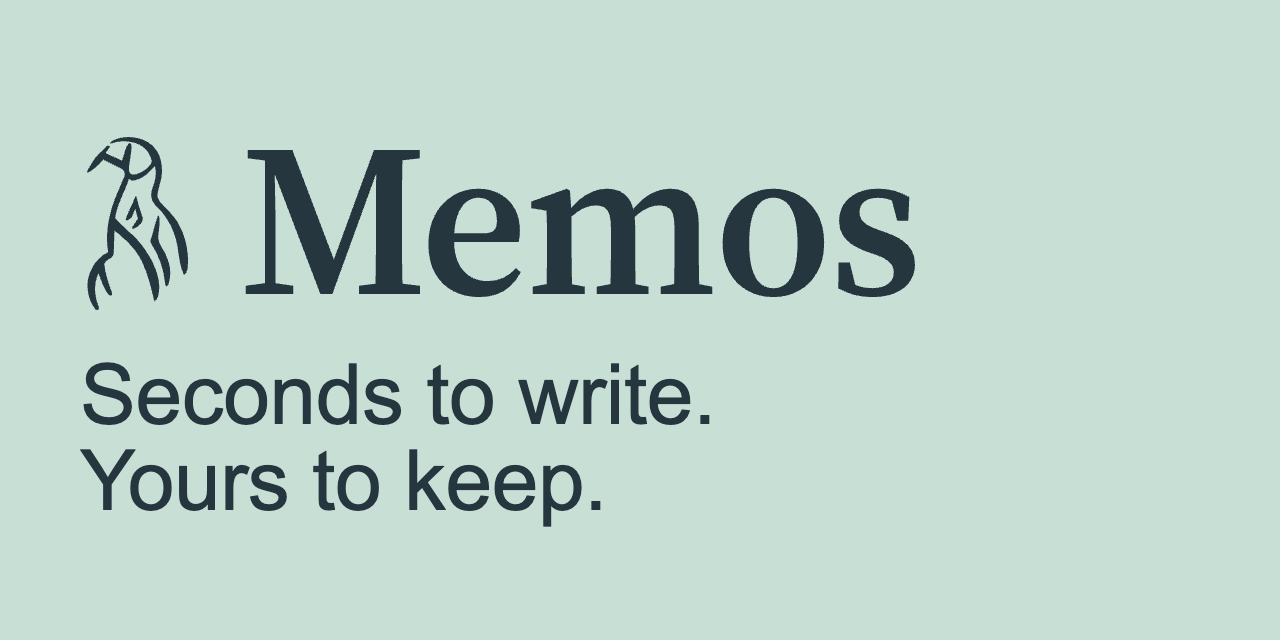
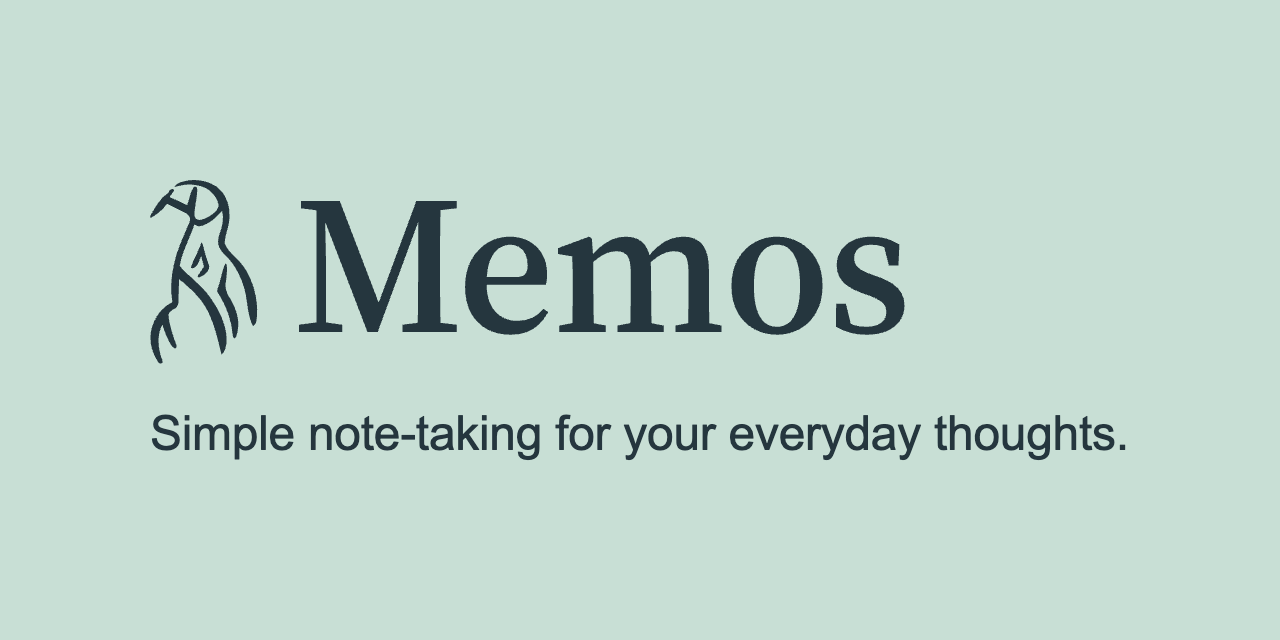
chore(brand): refine lockup proportions and unify public copy

Changed region(s): [[0.0625, 0.2188, 0.875, 0.8125]]

diff --git a/tools/preview/preview.css b/tools/preview/preview.css
@@ -27,7 +27,7 @@ body { font-family: var(--font-sans); color: var(--ink); background: var(--backd
 .app { display: flex; width: 1356px; height: 1022px; overflow: hidden; border: 1px solid #C9CECB; border-radius: 8px; background: var(--app); box-shadow: 0 14px 30px #253A2F12; }
 .sidebar { flex: 0 0 324px; padding: 10px 13px; border-right: 1px solid #E2E1DD; background: var(--sidebar); }
 .brand { display: flex; align-items: center; gap: 10px; height: 45px; margin-bottom: 12px; color: #17201C; }
-.brand-lockup { display: block; width: 145px; height: 40px; }
+.brand-lockup { display: block; width: 145px; height: auto; }
 .brand .icon { width: 17px; height: 17px; margin-left: -1px; color: #858782; }
 .icon { display: inline-block; width: 22px; height: 22px; flex: 0 0 auto; vertical-align: middle; fill: none; stroke: currentColor; stroke-width: 1.8; stroke-linecap: round; stroke-linejoin: round; }
 .nav { height: 54px; display: flex; align-items: flex-start; gap: 15px; border-bottom: 1px solid #DBDBD5; color: #7F817E; }

diff --git a/BRAND.md b/BRAND.md
@@ -4,36 +4,49 @@ Everything said about Memos in public comes from this file. Change it here first
 
 ## Who it is for
 
-Someone with many quick thoughts a day and nowhere to put them. Not a writer or an organizer; they just want the thought out before it goes. Most note apps ask first: a title, a folder, a place on the page. What they write is theirs. Some share part of it with family and friends.
+Someone who records thoughts in short moments throughout the day, often a sentence at a time. They want to write while a thought is fresh and then get back to what they were doing. They value being able to revisit those thoughts later, with control over their data and sharing.
 
-Public words speak to this person as "you". Sharing is written for that circle. A link anyone can open, the Explore page, and a Memos that several people use are served by the same words, not by separate copy.
+Some keep their memos private; others share with family and friends or publish on the web. Public words speak to this person as “you”.
 
 ## What Memos gives them
 
-A place for every quick thought. Memos asks nothing first: no title, no folder, no place to put it. They type, and the thought is kept before it goes.
+A place for each thought. Writing starts with what is on their mind. A single sentence can be a whole memo, and they can take their time with a longer entry. Markdown gives their words formatting and structure when they want it.
 
-A day they can return to. Every memo keeps the day it was written, and any day can be found again.
+A record they can return to. Each memo stays with the day it was written, forming a personal timeline. Tags help them follow a topic across those days and find past entries.
 
-A record that is theirs. It lives where they decide, reports to no one, and leaves as plain Markdown.
+Ownership of their data. Memos is open-source and self-hosted. Their record lives on their own server, and their data stays theirs.
 
-Family and friends, when they choose. A memo is theirs alone until they share it. Each person writes their own memos and sees only what the others choose to show.
+Sharing they control. They decide what stays private, what to share with family and friends, and what to publish on the web. In shared spaces, they can write alongside others while keeping their own memos.
 
 ## How Memos talks
 
-Like that person's own notebook would, if it could talk. Quiet and plain. It says what is yours and what you can do, never what the software does or where it runs. Open-source is the one fact about the software it may state, where readers look for it. It says fast, private, and yours; never frictionless, secure, or encrypted. It does not sell: no comparison with other apps, no superlatives, no call to act.
+Quiet, plain, and natural. Lead with what the reader can write, keep, revisit, and share. Use connected sentences and concrete experiences. Express the value positively: a single sentence can be a whole memo.
 
-The product is Memos, singular. One entry is a memo. The whole is the timeline.
+Name open-source and self-hosted clearly in the product introduction, and connect them to ownership of the reader’s data. Explain Markdown, tags, and spaces through the writing, revisiting, and sharing they support. Keep claims about capabilities and data handling specific and factual. Use restrained descriptions of the experience, such as “simple”, and explain the behavior behind them. Avoid comparisons, superlatives, calls to action, and promises of security or encryption.
+
+Use these terms consistently:
+
+- **Memos** is the product name and takes a singular verb. Use “note-taking app” for the product category.
+- A **memo** is one entry.
+- A **timeline** presents memos in time order.
+- A **tag** labels a topic and helps readers find related memos.
+- A **space** brings members and their memos together. Each memo keeps its author and its own sharing settings.
+
+Use lowercase memo, timeline, tag, and space in prose, with regular plurals. Preserve capitalization when quoting a UI label. Use personal for the reader’s own record or timeline, and private for a memo’s visibility.
+
+Use curly quotation marks and apostrophes in prose. Preserve literal characters in code, attribute values, paths, and identifiers.
 
 ## Copy
 
+The full introduction is the basis for the description and headline. Each piece expresses the same positioning at a different length and should make sense to someone meeting Memos for the first time. In README headers and website heroes, pair the headline with the description. Use the full introduction when there is room to explain the experience. On social cards, the headline appears with the lockup.
+
 Used as written.
 
-| Piece | Copy | Where |
-| --- | --- | --- |
-| Tagline | Seconds to write. Yours to keep. | README header, usememos.com hero |
-| One-liner | A timeline for your thoughts. Just type. It stays yours. | Repository descriptions, page metadata |
-| Short | Memos is a place for every quick thought. No title, no folder, nothing to pick: type, and the thought is kept on the day you wrote it. Your memos stay where you decide, yours alone until you share one with family and friends. | README, website, Docker Hub, Helm, deploy templates |
-| Standard | Memos is an open-source timeline for your quick thoughts. It asks nothing first: no title to invent, no folder to pick, no place to put it. Type, and the thought is kept before it goes. Every memo keeps the day it was written, so any day can be found again: by scrolling, by calendar, by tag, or by word. Your memos live where you decide, report to no one, and leave as plain Markdown whenever you like. They are yours alone until you share one with family or friends, who write their own memos and see only what you choose to show. | Documentation introduction, store listings |
+| Piece | Purpose | Copy | Where |
+| --- | --- | --- | --- |
+| Headline | Identifies the category and core use at a glance; leaves product and ownership details to the description. | Simple note-taking for your everyday thoughts. | README header, usememos.com hero, social card |
+| Description | States what Memos is, how thoughts come together, and who controls the data and sharing. | Memos is an open-source, self-hosted note-taking app that brings your everyday thoughts together in a personal timeline. Your data stays yours, and you choose what to keep private or share. | README header, usememos.com hero, repository descriptions, page metadata, store subtitles, compact product introductions |
+| Full introduction | Explains the experience naturally: everyday writing, a personal record, data ownership, and sharing. | Memos is an open-source, self-hosted note-taking app for your everyday thoughts. It’s a place to write what’s on your mind as you go about your day. A single sentence can be a whole memo, or you can take your time with a longer entry, using Markdown to give your words more structure.<br><br>These moments of writing gradually become a personal record. Each memo stays with the day you wrote it, bringing your thoughts together in a timeline you can look back through. Tags connect related thoughts across those days, making it easy to pick up a topic again or find something you remember writing.<br><br>That record lives on your own server, and your data stays yours. You choose what stays private, what to share with family and friends, and what to publish on the web. In shared spaces, you can write alongside others while each person keeps their own memos. | README, website, documentation introduction, store listings, Docker Hub, Helm, deploy templates |
 
 ## Assets
 
@@ -41,32 +54,32 @@ Used as written.
 | --- | --- |
 | [mark.svg](assets/brand/mark.svg) | Bird alone for navigation and icons, above 32 px. |
 | [mark-small.svg](assets/brand/mark-small.svg) | Bird alone at 32 px or below. |
-| [lockup.svg](assets/brand/lockup.svg) | Bird and wordmark for headers; visible bird above 32 px. |
-| [lockup-small.svg](assets/brand/lockup-small.svg) | Lockup with a visible bird of 32 px or below. |
-| [lockup-on-dark.svg](assets/brand/lockup-on-dark.svg) | Standard lockup with light artwork for dark-background image embeds. |
+| [lockup.svg](assets/brand/lockup.svg) | Bird and wordmark for headers, using the same artwork at every size. |
+| [lockup-small.svg](assets/brand/lockup-small.svg) | Compatibility URL for the same lockup artwork, with compact intrinsic dimensions. |
+| [lockup-on-dark.svg](assets/brand/lockup-on-dark.svg) | The same lockup with light artwork for dark-background image embeds. |
 | [avatars/](assets/brand/avatars/) | Eight 512 × 512 PNGs for account and organization profiles. |
 | [timeline-light.png](assets/previews/timeline-light.png), [timeline-dark.png](assets/previews/timeline-dark.png) | Product previews for the corresponding theme. |
-| [social-preview.png](assets/previews/social-preview.png) | 1280 × 640 social card with the official lockup, tagline, and celadon background. |
+| [social-preview.png](assets/previews/social-preview.png) | 1280 × 640 social card with the official lockup, headline, and celadon background. |
 | [sponsors/](assets/sponsors/) | Supplied sponsor artwork. |
 
-Choose size variants by rendered SVG size for marks and visible bird height for lockups.
+Choose standalone mark variants by rendered SVG size. Lockups use one set of outlines and proportions at every size; use `lockup.svg` for new consumers. The recommended minimum lockup width is 145 px, including its canvas padding.
 
 ## Mark and wordmark
 
 A bird drawn in the manner of early pictographs, the oldest records of what someone once thought. One filled shape, one color. It is never redrawn: not traced, outlined, stretched, cropped, or colored in parts.
 
-The wordmark uses [Source Serif 4](https://github.com/adobe-fonts/source-serif) Semibold (`600`), optical size `32`, kerning enabled, and `−0.015em` letter spacing, under the [SIL Open Font License 1.1](https://github.com/adobe-fonts/source-serif/blob/release/LICENSE.md). This typeface applies only to the wordmark. Use the supplied SVG lettering; no font installation is required.
+The wordmark uses [Source Serif 4](https://github.com/adobe-fonts/source-serif) at variable weight `550`, optical size `32`, kerning enabled, and `−0.015em` letter spacing, under the [SIL Open Font License 1.1](https://github.com/adobe-fonts/source-serif/blob/release/LICENSE.md). This typeface applies only to the wordmark. Use the supplied SVG lettering; no font installation is required.
 
-With **H** equal to the capital M height, the bird is `1.2H` tall, with a `0.4H` gap and `0.25H` canvas padding on each side. Scale the supplied lockup uniformly, preserving its alignment, `viewBox`, and padding.
+With **H** equal to the capital M height, the bird is `1.4H` tall, with a `0.32H` gap between the visible bird and lettering. The bird’s visible vertical center sits `0.03H` below the visible center of the full wordmark. Canvas padding is `0.25H` from the artwork’s outermost visible bounds on each side. Scale the supplied lockup uniformly, preserving its alignment, `viewBox`, and padding; do not change the artwork or optical size for smaller displays.
 
 ## Usage
 
-- **Color:** Inline SVGs use `currentColor`; set CSS `color` for a dark fill on light backgrounds and a light fill on dark backgrounds. The mark's optional `--logo-background` and `--logo-radius` properties control its background rectangle.
+- **Color:** Inline SVGs use `currentColor`; set CSS `color` for a dark fill on light backgrounds and a light fill on dark backgrounds. The mark’s optional `--logo-background` and `--logo-radius` properties control its background rectangle.
 - **Image embeds:** `<img>` cannot pass page colors into an SVG. Switch between `lockup.svg` and `lockup-on-dark.svg` using `<picture>` and `prefers-color-scheme`; see the [README example](profile/README.md). Use full public URLs for embeds across repositories.
-- **Accessible names:** Name standalone or linked logos “Memos.” Hide decorative duplicates with `alt=""` or `aria-hidden="true"`, while keeping links named.
+- **Accessible names:** Name standalone or linked logos “Memos”. Hide decorative duplicates with `alt=""` or `aria-hidden="true"`, while keeping links named.
 - **Avatars:** Upload the square PNG unchanged and let the platform apply its mask. Pick one color per surface and use it consistently. A primary palette is not chosen yet.
 - **Previews:** Keep light and dark content aligned. Export both 1448 × 1086 PNGs from [tools/preview/](tools/preview/), preserving their aspect ratio and solid control fills. Use the light image as the fallback.
-- **Social card:** Export the 1280 × 640 PNG from `tools/preview/build-social.mjs` and its generated preview page. Keep the celadon background flat and scale the official lockup uniformly.
+- **Social card:** Export the 1280 × 640 PNG from `tools/preview/build-social.mjs` and its generated preview page. Keep the celadon background flat and scale the official lockup uniformly. The lockup leads, with a smaller, single-line headline below it. Check the rendered headline for fit and readability before export. Align their visible left edges and center the group on the canvas, leaving a clear gap between the artwork and headline.
 
 ## Changes
 

diff --git a/tools/preview/README.md b/tools/preview/README.md
@@ -14,7 +14,7 @@ node tools/preview/build-social.mjs
 
 Open `tools/preview/dist/social-preview.html` and click **Download PNG**, then copy the downloaded `social-preview.png` into `assets/previews/`. The page is self-contained and works without a server. It exports exactly 1280 × 640 pixels, independent of the displayed preview size or device pixel ratio. The PNG is ready to upload as a repository's social preview in GitHub settings.
 
-`build-social.mjs` defines the flat celadon background (`#c8dfd5`), dark ink (`#25363e`), layout, and two-line tagline. It reads the tagline from `BRAND.md` and embeds `assets/brand/lockup.svg`, preserving its official paths, viewBox, padding, and proportions. Only the tagline uses live text (Arial, with Helvetica and sans-serif fallbacks); its rasterization can vary by operating system. No font or image service is required.
+`build-social.mjs` defines the flat celadon background (`#c8dfd5`), dark ink (`#25363e`), and brand-first layout. The lockup has an 820 px canvas width; the smaller 48 px headline sits on one line below it. Their visible left edges align, and the group is centered on the card. It reads the Headline copy cell from `BRAND.md` and embeds `assets/brand/lockup.svg`, preserving its official paths, viewBox, padding, and proportions. Only the headline uses live text (Arial, with Helvetica and sans-serif fallbacks); its rasterization can vary by operating system. No font or image service is required.
 
 The builder also writes `dist/social-preview.svg` for vector inspection. Both generated sources in `dist/` are ignored by Git. Export through **Download PNG** for the published asset; browser screenshots may be lossy. Inspect the PNG at full size and at a small sharing size before replacing it.
 
@@ -50,7 +50,9 @@ the operating system and browser. The exported stage carries its own font styles
 | `icons.json` | The 16 Lucide icon definitions used by the preview. |
 | `LICENSE.lucide` | Lucide and Feather copyright notices and licenses. |
 
-The builder reads the official lockup from `../../assets/brand/lockup-small.svg`.
+The builder reads the official lockup from `../../assets/brand/lockup.svg`.
+The same outlines and proportions are used at every size. The preview sets its
+width to 145 px and lets its height follow the SVG aspect ratio.
 The icon definitions were copied from `lucide-react` 1.34.0 without changing their
 geometry; the build includes their license notices in each generated HTML file.
 The notebook illustration was extracted from the approved generated mockup.

diff --git a/profile/README.md b/profile/README.md
@@ -5,9 +5,9 @@
   </picture>
 </p>
 
-### A timeline for your thoughts. Just type. It stays yours.
+### Simple note-taking for your everyday thoughts.
 
-Memos is a place for every quick thought. No title, no folder, nothing to pick: type, and the thought is kept on the day you wrote it. Your memos stay where you decide, yours alone until you share one with family and friends.
+Memos is an open-source, self-hosted note-taking app that brings your everyday thoughts together in a personal timeline. Your data stays yours, and you choose what to keep private or share.
 
 [Website](https://usememos.com) · [Demo](https://demo.usememos.com) · [Install](https://usememos.com/docs/deploy) · [Docs](https://usememos.com/docs) · [Brand](https://usememos.com/brand) · [Discord](https://discord.gg/tfPJa4UmAv)
 
@@ -16,6 +16,14 @@ Memos is a place for every quick thought. No title, no folder, nothing to pick: 
   <source media="(prefers-color-scheme: light)" srcset="https://raw.githubusercontent.com/usememos/.github/refs/heads/main/assets/previews/timeline-light.png">
   <img src="https://raw.githubusercontent.com/usememos/.github/refs/heads/main/assets/previews/timeline-light.png" alt="The Memos timeline with a memo composer and recent memos">
 </picture>
+
+## About Memos
+
+Memos is an open-source, self-hosted note-taking app for your everyday thoughts. It’s a place to write what’s on your mind as you go about your day. A single sentence can be a whole memo, or you can take your time with a longer entry, using Markdown to give your words more structure.
+
+These moments of writing gradually become a personal record. Each memo stays with the day you wrote it, bringing your thoughts together in a timeline you can look back through. Tags connect related thoughts across those days, making it easy to pick up a topic again or find something you remember writing.
+
+That record lives on your own server, and your data stays yours. You choose what stays private, what to share with family and friends, and what to publish on the web. In shared spaces, you can write alongside others while each person keeps their own memos.
 
 ## Projects
 
